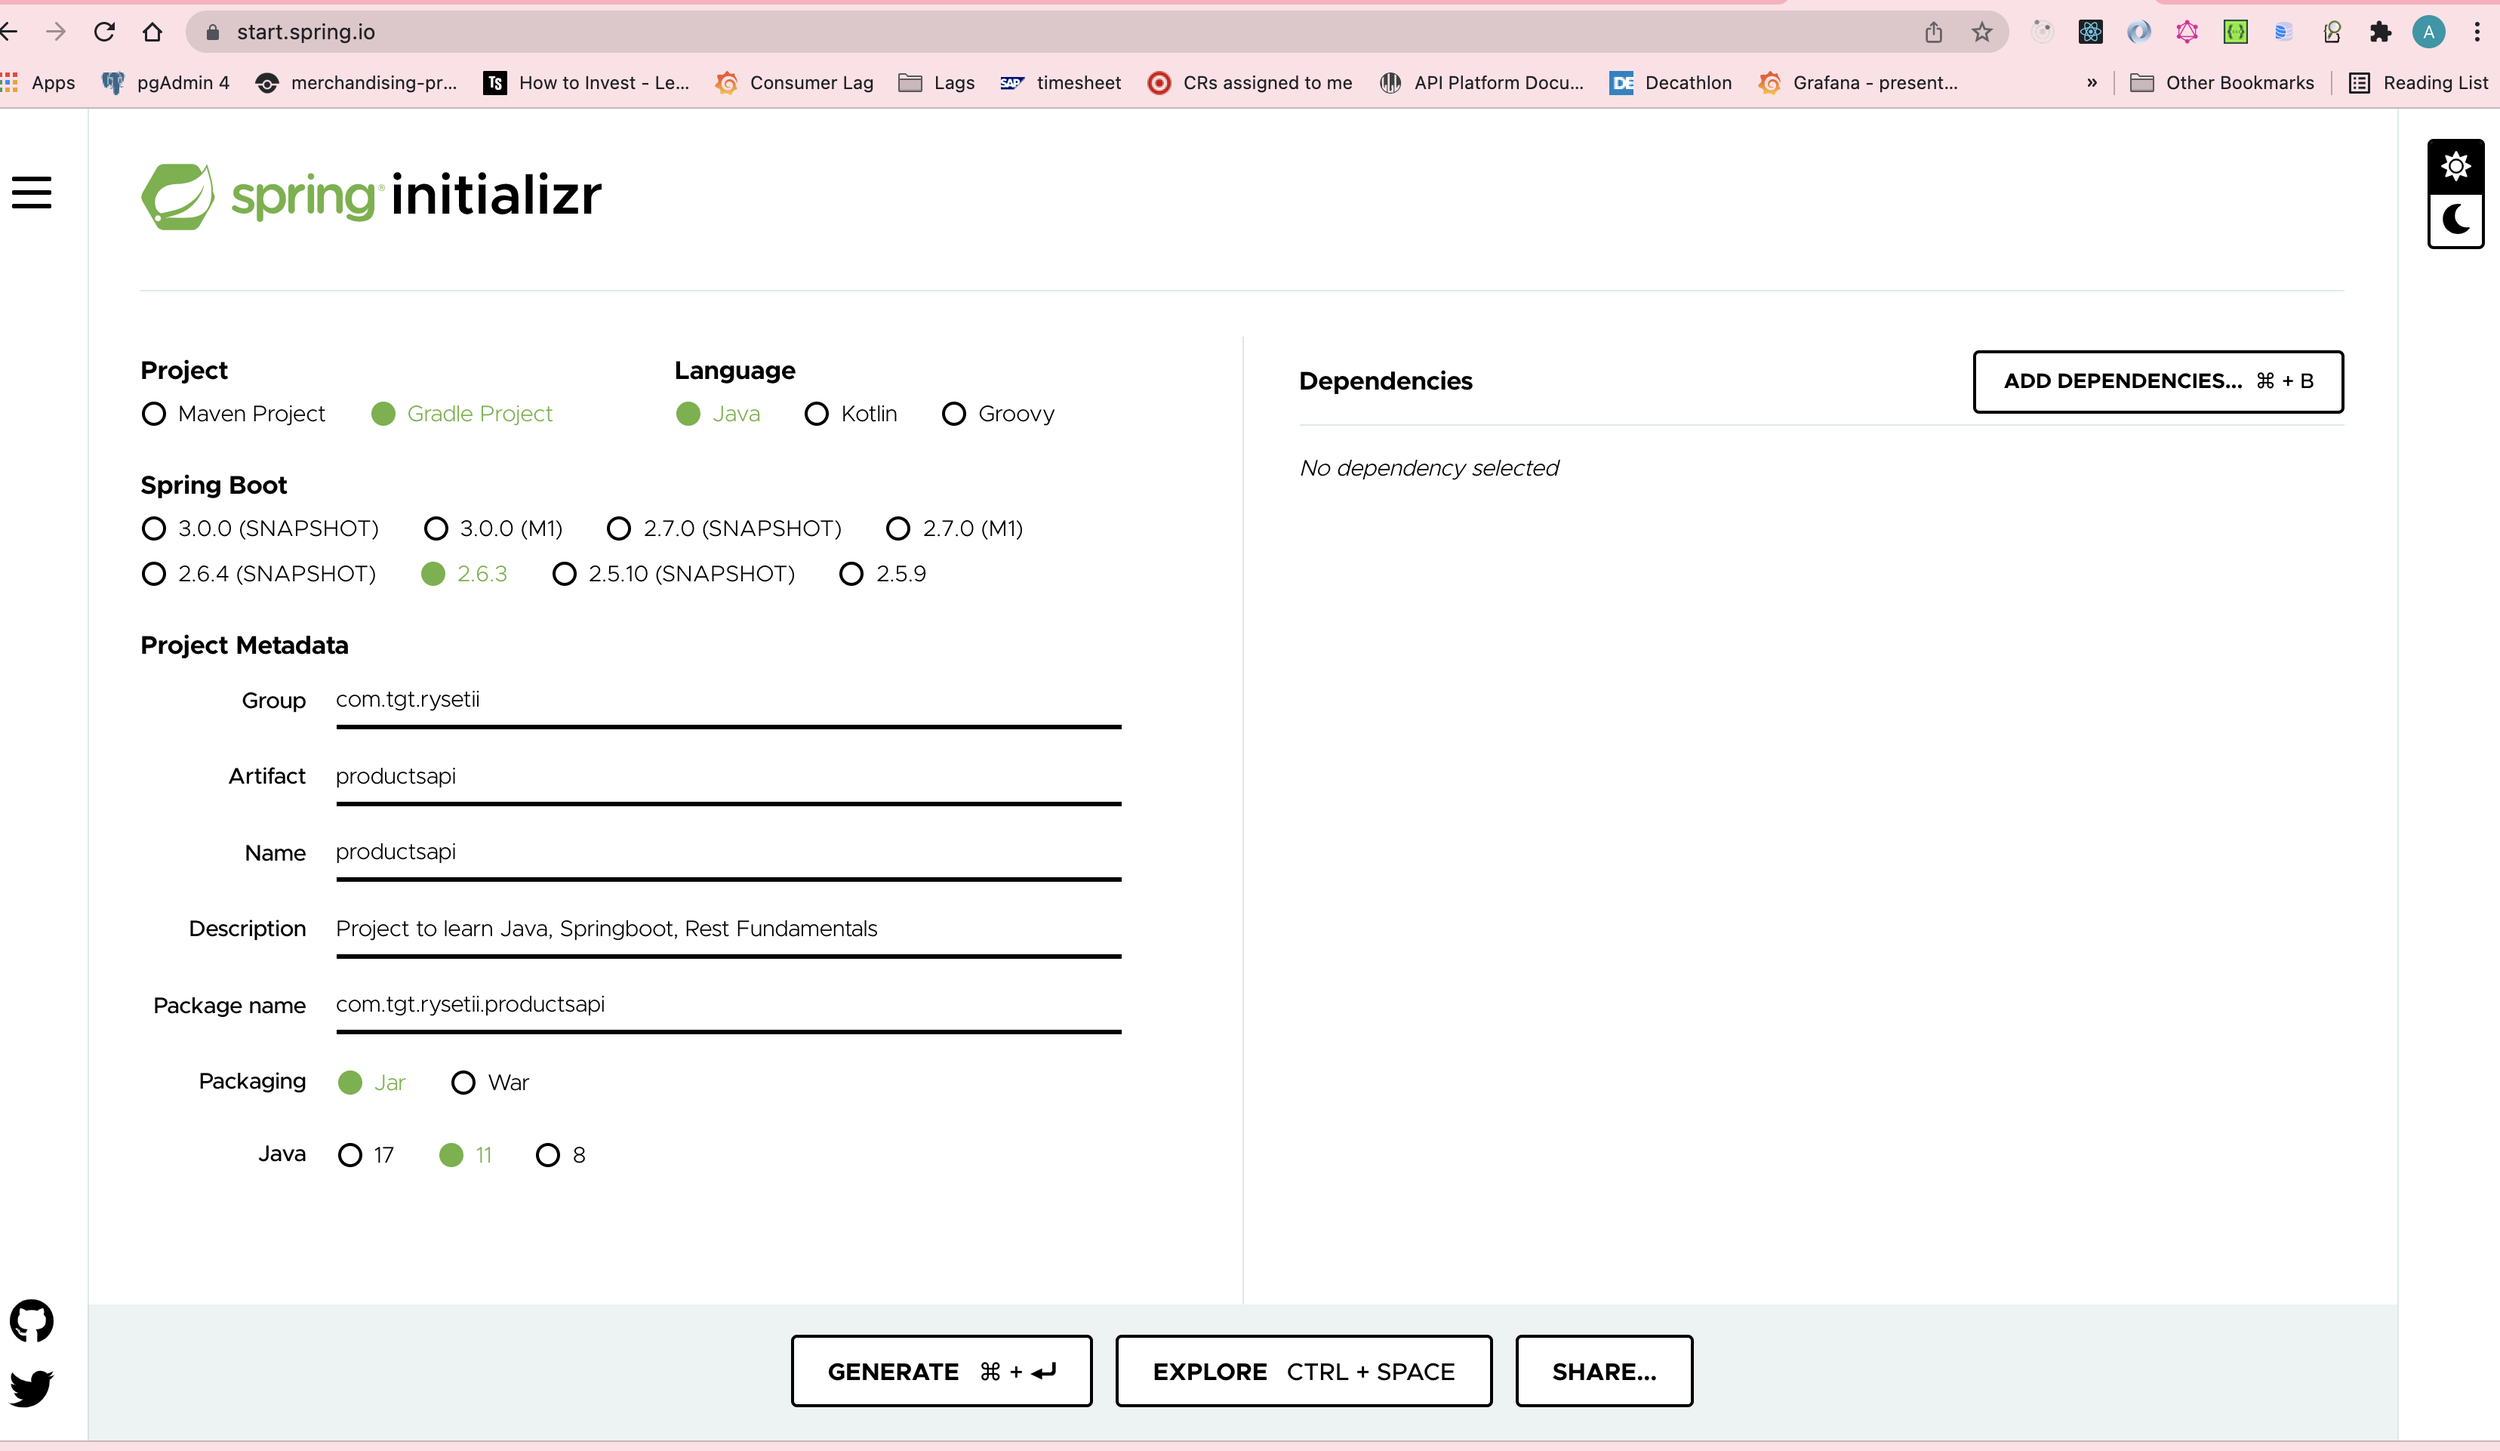
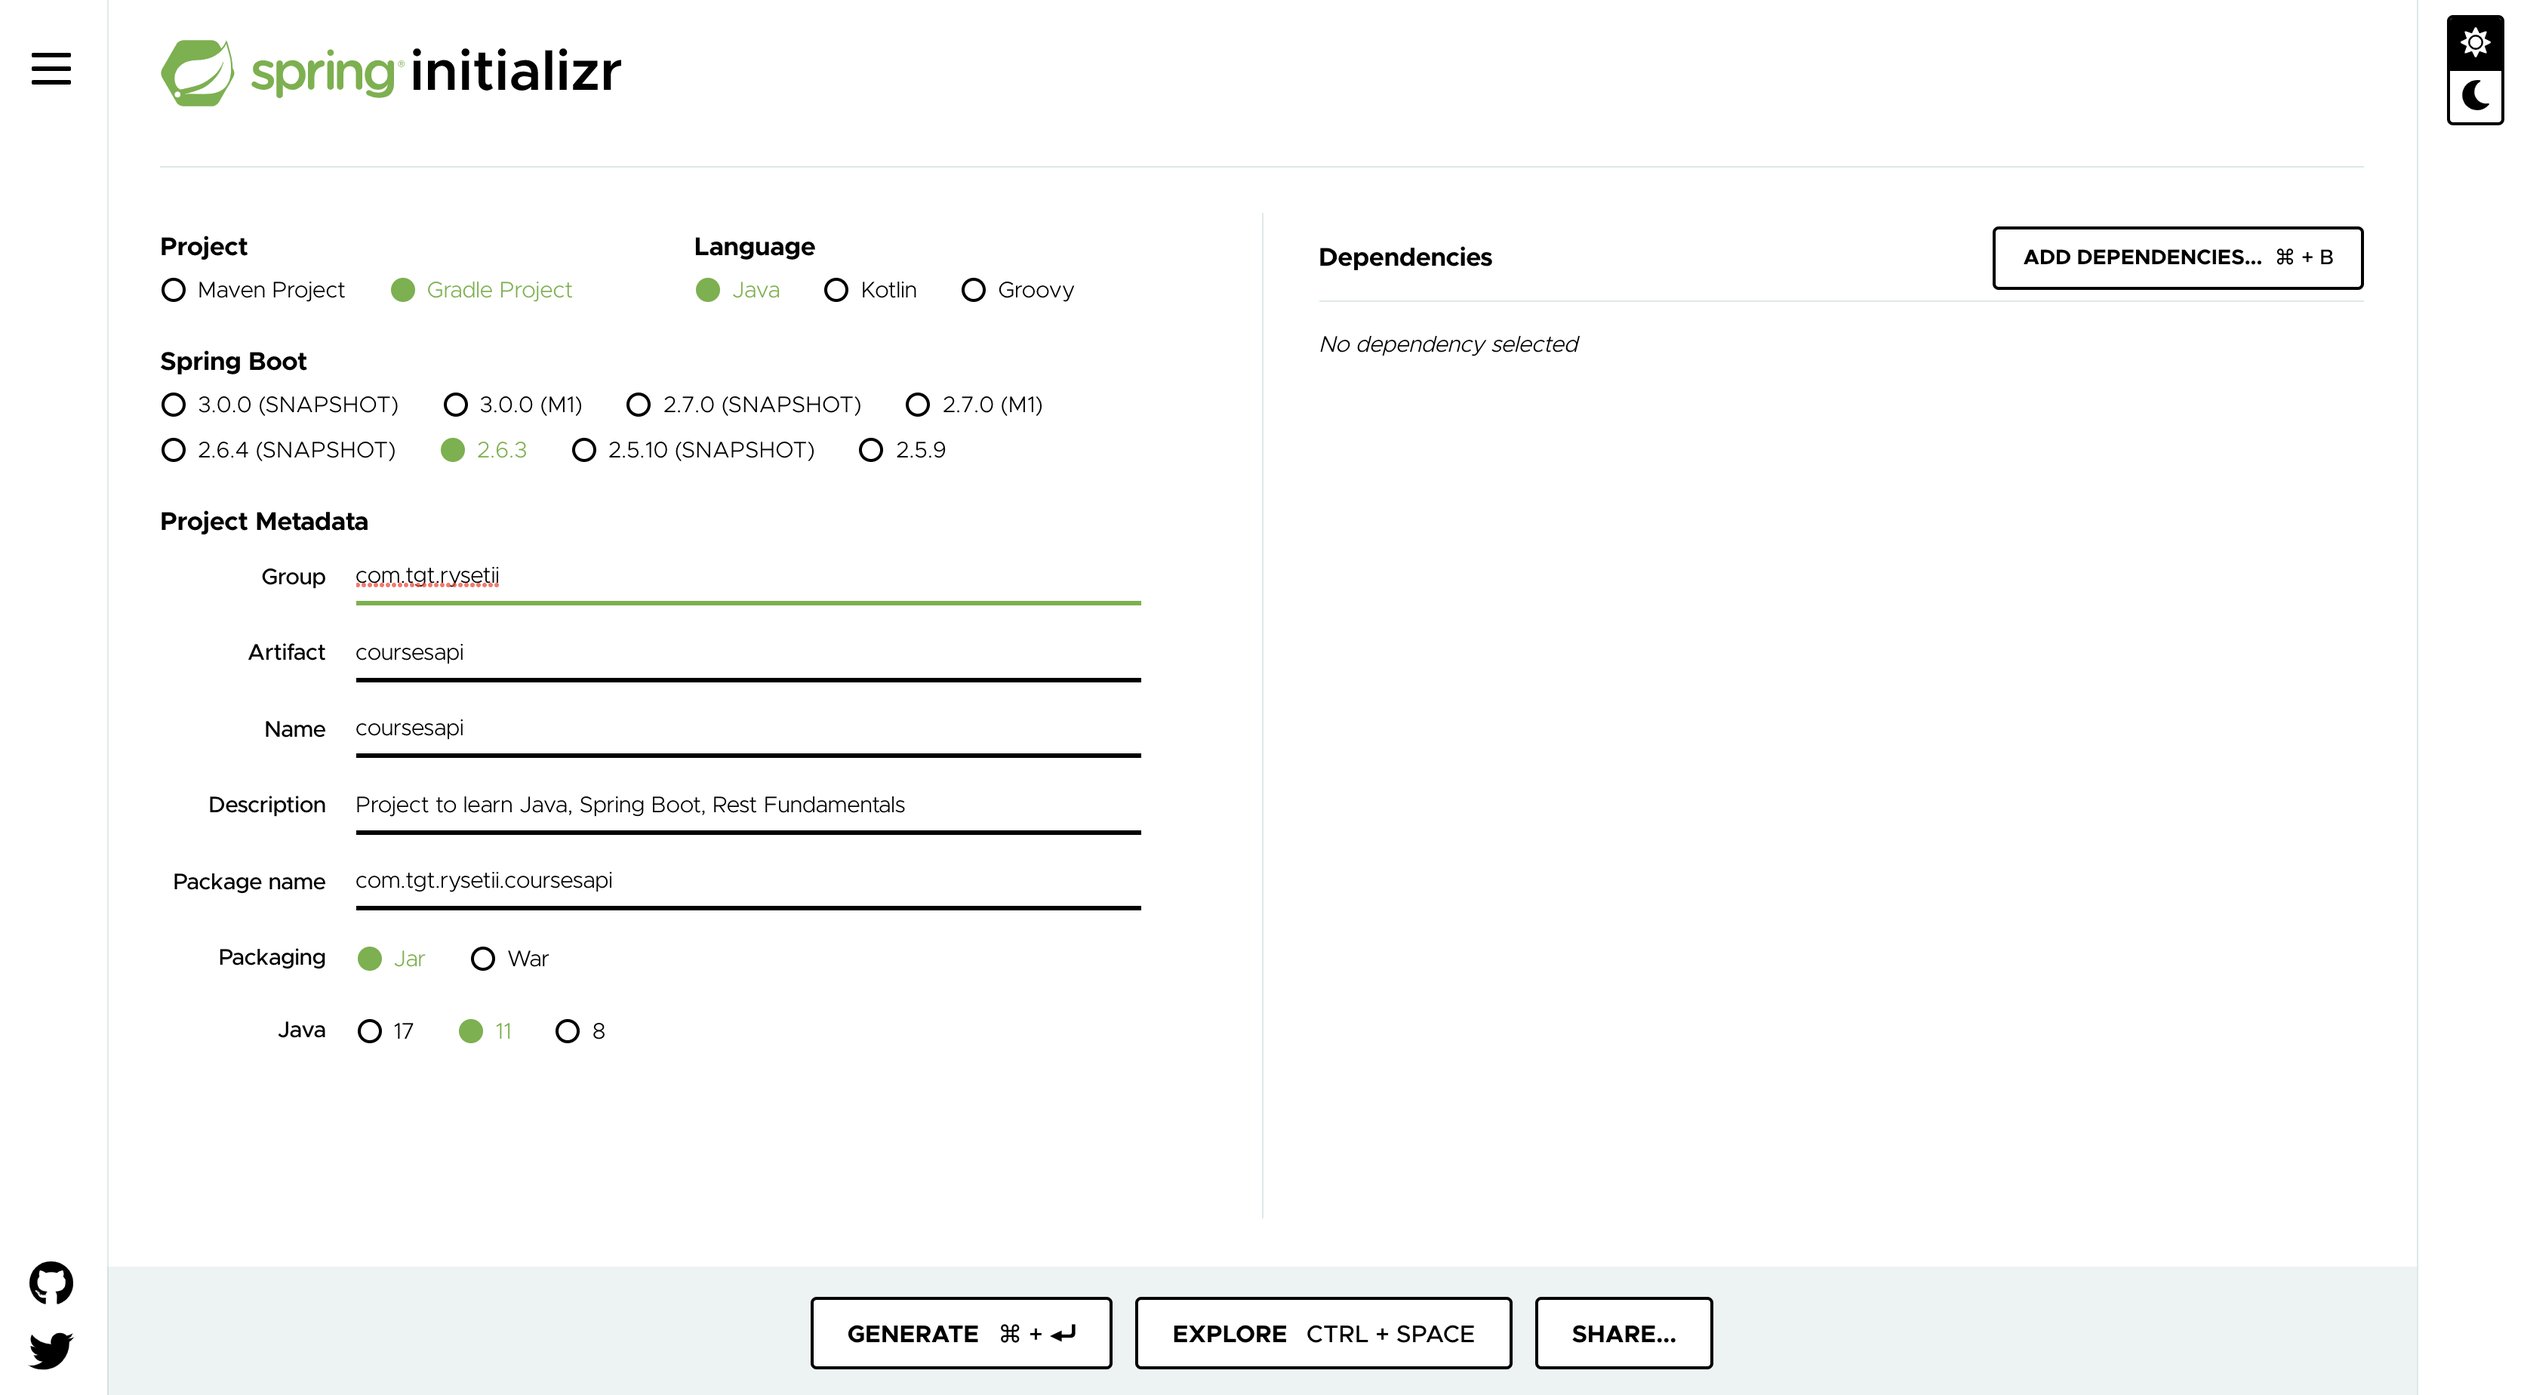
Rename the project to coursesapi

diff --git a/src/main/java/com/tgt/rysetii/coursesapi/CoursesapiApplication.java b/src/main/java/com/tgt/rysetii/coursesapi/CoursesapiApplication.java
@@ -1,13 +1,13 @@
-package com.tgt.rysetii.productsapi;
+package com.tgt.rysetii.coursesapi;
 
 import org.springframework.boot.SpringApplication;
 import org.springframework.boot.autoconfigure.SpringBootApplication;
 
 @SpringBootApplication
-public class ProductsapiApplication {
+public class CoursesapiApplication {
 
 	public static void main(String[] args) {
-		SpringApplication.run(ProductsapiApplication.class, args);
+		SpringApplication.run(CoursesapiApplication.class, args);
 		System.out.println("Hello World!!");
 	}
 

diff --git a/Readme.md b/Readme.md
@@ -1,25 +1,26 @@
 # Activity Goal
 
-Create your first spring boot app
+Create your first Spring Boot app
 
 # Activity Details
 
-1. Navigate to https://start.spring.io/
-2. Provide details as per below screenshot - ![Screenshot](SpringBootProjectGeneration.png)
-3. Generate folder, download, unzip and open in Intellij
-4. Build code. Explore files created
-5. In terminal run command git init. This should create an empty .git folder
-6. In git.target.com - Create new git repository under your own org with the name products-api
-7. Copy the git repo link and then run command from terminal - git remote add origin git@git.target.com:<Org name>/products-api.git
-8. Create a new git branch with command git checkout -b "1-HelloWorld"
-9. Run command git add . 
-10. Run command git push origin "1-Hello-World"
+1. Navigate to https://start.spring.io/ .
+2. Provide details as given below ![Screenshot](SpringBootProjectGeneration.png)
+3. Generate the folder, download, unzip and open in Intellij.
+4. Build the code and explore the files created.
+5. In terminal run command git init. This should create an empty `.git` folder.
+6. In https://git.target.com - Create new git repository under your own org with the name `courses-api`.
+7. Copy the git repo link and then run command from terminal `git remote add origin git@git.target.com:<Org name>/courses-api.git`
+8. Create a new git branch with command `git checkout -b "1-HelloWorld"`
+9. Run command `git add .` 
+10. Commit your changes using `git commit -m "<your commit message>"`
+10. Run command `git push origin "1-Hello-World"`
 
 # Activities to explore
-1. Understand the folder structure
-2. Look at the structure of the class ProductsApiApplication
-3. Add a line to pring "Hello world"
-4. Build Code. Locate where the compile code is stored.
-5. Understand difference between compiled code and source code.
-6. Understand the main method and its relavence
-7. Understand the git commands used
+1. Understand the folder structure.
+2. Look at the structure of the class CoursesapiApplication.
+3. Add a line to print "Hello world".
+4. Build your code  and locate where the compiled code is stored.
+5. Understand the difference between compiled code and source code.
+6. Understand the main method and its relevance.
+7. Understand the differentgit commands used.
